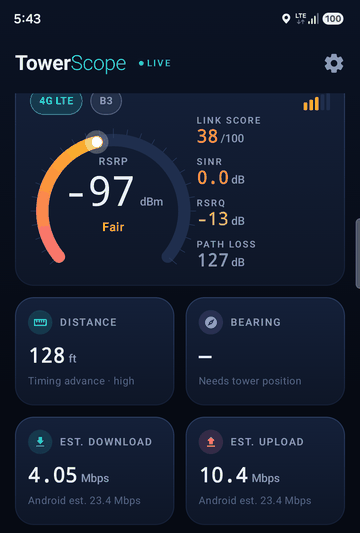
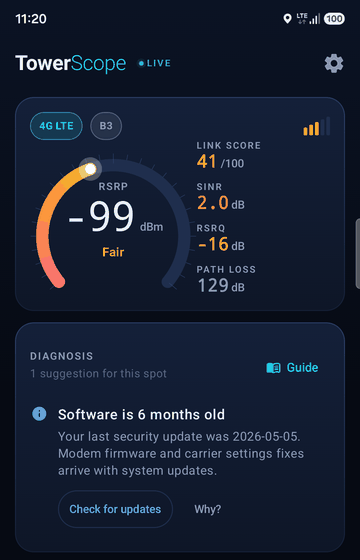
Radar: true vs magnetic north, prominent direction beam to the tower
- Platforms expose the magnetic declination (Android GeomagneticField, iOS true-minus-magnetic heading);
  the radar marks true north (red N) and magnetic north (amber MN), with a caption giving the declination.
- A wedge beam with flowing chevrons, an arrowhead and a bearing tag points at the serving tower, and a
  line under the radar says "Tower 235° SW · turn 40° left".
- Range labels move to the lower-right diagonal so they don't collide with the north markers.
- Refreshed the Overview screenshots.

diff --git a/shared/src/commonMain/kotlin/io/towerscope/ui/components/Graphics.kt b/shared/src/commonMain/kotlin/io/towerscope/ui/components/Graphics.kt
@@ -88,6 +88,8 @@ fun RadarView(
     rangeM: Double,
     units: UnitSystem,
     modifier: Modifier = Modifier,
+    /** Magnetic declination (east positive). When known with a compass, a magnetic-north marker is drawn. */
+    declinationDeg: Float? = null,
 ) {
     val transition = rememberInfiniteTransition()
     val sweep by transition.animateFloat(0f, 360f, infiniteRepeatable(tween(if (scanning) 1800 else 4200, easing = LinearEasing)))
@@ -97,6 +99,8 @@ fun RadarView(
     val labelStyle = TextStyle(color = Palette.TextFaint, fontSize = 9.sp, fontFamily = Mono)
     val cardinalStyle = TextStyle(color = Palette.TextDim, fontSize = 11.sp, fontWeight = FontWeight.Bold)
     val northStyle = cardinalStyle.copy(color = Palette.Red)
+    val magStyle = TextStyle(color = Palette.Amber, fontSize = 9.sp, fontWeight = FontWeight.Bold)
+    val beamLabelStyle = TextStyle(color = Color.White, fontSize = 12.sp, fontWeight = FontWeight.Bold, fontFamily = Mono)
     val accent = Palette.Cyan
 
     Canvas(modifier.fillMaxWidth().aspectRatio(1f)) {
@@ -114,7 +118,9 @@ fun RadarView(
             drawCircle(Palette.StrokeHi.copy(alpha = if (i == 4) 0.9f else 0.45f), r, c, style = Stroke(if (i == 4) 1.5f else 1f))
             val txt = Fmt.distance(rangeM * i / 4, units)
             val layout = measurer.measure(txt, labelStyle)
-            drawText(layout, topLeft = Offset(c.x + 4f, c.y - r + 2f))
+            // On the lower-right diagonal: labels stagger instead of colliding, and the north markers stay clear.
+            val at = polar(c, r, 135f)
+            drawText(layout, topLeft = Offset(at.x - layout.size.width - 2f, at.y - layout.size.height - 1f))
         }
         // Ticks & cardinal points (rotate with heading)
         for (d in 0 until 360 step 10) {
@@ -127,7 +133,16 @@ fun RadarView(
         }
         listOf("N" to 0f, "E" to 90f, "S" to 180f, "W" to 270f).forEach { (t, d) ->
             val layout = measurer.measure(t, if (t == "N") northStyle else cardinalStyle)
-            val p = polar(c, R + 16.dp.toPx() * 0.75f, d + rot)
+            val p = polar(c, R + 15.dp.toPx(), d + rot)
+            drawText(layout, topLeft = Offset(p.x - layout.size.width / 2f, p.y - layout.size.height / 2f))
+        }
+        // North markers: red = true north, amber = magnetic north (only shown when the compass is in use).
+        drawRingMarker(c, R, rot, Palette.Red, 6.dp.toPx())
+        if (headingDeg != null && declinationDeg != null) {
+            val m = declinationDeg + rot
+            drawRingMarker(c, R, m, Palette.Amber, 5.dp.toPx())
+            val layout = measurer.measure("MN", magStyle)
+            val p = polar(c, R - 20.dp.toPx(), m)
             drawText(layout, topLeft = Offset(p.x - layout.size.width / 2f, p.y - layout.size.height / 2f))
         }
         // Crosshair
@@ -148,6 +163,56 @@ fun RadarView(
             )
         }
         drawLine(accent.copy(alpha = 0.9f), c, polar(c, R, sweep), strokeWidth = 2f)
+
+        // Direction beam to the primary tower: wedge, core line, chevrons flowing outward, bearing tag.
+        blips.firstOrNull { it.primary && !it.ringOnly && it.bearingDeg != null }?.let { b ->
+            val bearing = b.bearingDeg!!.toFloat()
+            val a = bearing + rot
+            val half = 8f
+            val wedge = Path().apply {
+                moveTo(c.x, c.y)
+                val p0 = polar(c, R, a - half)
+                lineTo(p0.x, p0.y)
+                arcTo(
+                    androidx.compose.ui.geometry.Rect(c.x - R, c.y - R, c.x + R, c.y + R),
+                    a - half - 90f, 2 * half, false,
+                )
+                close()
+            }
+            drawPath(
+                wedge,
+                Brush.linearGradient(listOf(b.color.copy(alpha = 0.05f), b.color.copy(alpha = 0.42f)), c, polar(c, R, a)),
+            )
+            drawLine(b.color.copy(alpha = 0.95f), c, polar(c, R, a), strokeWidth = 3.dp.toPx(), cap = StrokeCap.Round)
+            for (i in 0 until 3) {
+                val f = (pulse + i / 3f) % 1f
+                val alpha = sin(f * PI.toFloat()).coerceIn(0f, 1f)
+                val tip = polar(c, R * (0.18f + 0.74f * f), a)
+                val back = R * (0.18f + 0.74f * f) - 7.dp.toPx()
+                val chevron = Path().apply {
+                    val l = polar(c, back, a - 6f); val r = polar(c, back, a + 6f)
+                    moveTo(l.x, l.y); lineTo(tip.x, tip.y); lineTo(r.x, r.y)
+                }
+                drawPath(chevron, Color.White.copy(alpha = 0.85f * alpha), style = Stroke(2.dp.toPx(), cap = StrokeCap.Round, join = StrokeJoin.Round))
+            }
+            // Arrowhead just outside the ring.
+            val tip = polar(c, R + 9.dp.toPx(), a)
+            val bl = polar(c, R - 1.dp.toPx(), a - 4.5f); val br = polar(c, R - 1.dp.toPx(), a + 4.5f)
+            drawPath(Path().apply { moveTo(tip.x, tip.y); lineTo(bl.x, bl.y); lineTo(br.x, br.y); close() }, b.color)
+            // Bearing tag on a pill, placed on the beam between the center and the tower.
+            val tag = measurer.measure("${((bearing % 360 + 360) % 360).toInt()}°", beamLabelStyle)
+            val tp = polar(c, R * 0.58f, a)
+            val pad = 4.dp.toPx()
+            drawRoundRect(
+                Color(0xE60A1424), Offset(tp.x - tag.size.width / 2f - pad, tp.y - tag.size.height / 2f - pad / 2),
+                Size(tag.size.width + 2 * pad, tag.size.height + pad), CornerRadius(8.dp.toPx()),
+            )
+            drawRoundRect(
+                b.color, Offset(tp.x - tag.size.width / 2f - pad, tp.y - tag.size.height / 2f - pad / 2),
+                Size(tag.size.width + 2 * pad, tag.size.height + pad), CornerRadius(8.dp.toPx()), style = Stroke(1.dp.toPx()),
+            )
+            drawText(tag, topLeft = Offset(tp.x - tag.size.width / 2f, tp.y - tag.size.height / 2f))
+        }
 
         // Blips
         blips.forEach { b ->
@@ -188,6 +253,14 @@ fun RadarView(
         drawCircle(Color.White, 7f, c)
         drawCircle(Palette.Blue, 5f, c)
     }
+}
+
+/** Small inward-pointing triangle sitting on the outer ring at [deg]. */
+private fun DrawScope.drawRingMarker(c: Offset, r: Float, deg: Float, color: Color, len: Float) {
+    val tip = polar(c, r - 1f, deg)
+    val spread = len / r * 180f / PI.toFloat() * 0.7f
+    val l = polar(c, r + len, deg - spread); val rr = polar(c, r + len, deg + spread)
+    drawPath(Path().apply { moveTo(tip.x, tip.y); lineTo(l.x, l.y); lineTo(rr.x, rr.y); close() }, color)
 }
 
 private fun DrawScope.drawTowerGlyph(p: Offset, color: Color, s: Float) {

diff --git a/shared/src/commonMain/kotlin/io/towerscope/ui/screens/OverviewScreen.kt b/shared/src/commonMain/kotlin/io/towerscope/ui/screens/OverviewScreen.kt
@@ -25,6 +25,7 @@ import androidx.compose.runtime.getValue
 import androidx.compose.ui.Alignment
 import androidx.compose.ui.Modifier
 import androidx.compose.ui.text.font.FontWeight
+import androidx.compose.ui.text.style.TextAlign
 import androidx.compose.ui.unit.dp
 import androidx.compose.ui.unit.sp
 import io.towerscope.AppController
@@ -34,6 +35,7 @@ import io.towerscope.calc.Fmt
 import io.towerscope.calc.Geo
 import io.towerscope.calc.SignalQuality
 import io.towerscope.calc.fmt
+import kotlin.math.abs
 import io.towerscope.data.UnitSystem
 import io.towerscope.model.Transport
 import io.towerscope.ui.Navigator
@@ -68,6 +70,7 @@ fun OverviewScreen(controller: AppController, nav: Navigator) {
     val snapshot by controller.snapshot.collectAsState()
     val fix by controller.fix.collectAsState()
     val heading by controller.heading.collectAsState()
+    val declination by controller.declination.collectAsState()
     val settings by controller.settings.collectAsState()
     val nearby by controller.nearby.collectAsState()
     val radioError by controller.radioError.collectAsState()
@@ -150,9 +153,25 @@ fun OverviewScreen(controller: AppController, nav: Navigator) {
                 }
             }
             Box(contentAlignment = Alignment.Center) {
-                RadarView(blips, heading, scanning = snapshot == null || serving == null, rangeM = range, units = units, modifier = Modifier.padding(top = 8.dp))
+                RadarView(
+                    blips, heading, scanning = snapshot == null || serving == null, rangeM = range, units = units,
+                    modifier = Modifier.padding(top = 8.dp), declinationDeg = declination,
+                )
                 if (snapshot == null) ScanningLabel("ACQUIRING SIGNAL…", Modifier.align(Alignment.BottomCenter))
             }
+            blips.firstOrNull { it.primary && !it.ringOnly && it.bearingDeg != null }?.let { b ->
+                val bearing = b.bearingDeg!!
+                val turn = heading?.let { h ->
+                    val rel = Geo.angleDelta(h.toDouble(), bearing)
+                    if (abs(rel) < 10) "you're facing it" else "turn ${abs(rel).fmt(0)}° ${if (rel > 0) "right" else "left"}"
+                }
+                Text(
+                    "Tower ${bearing.fmt(0)}° ${Geo.cardinal(bearing)}" + (turn?.let { " · $it" } ?: ""),
+                    fontSize = 15.sp, fontWeight = FontWeight.Bold, color = b.color,
+                    modifier = Modifier.fillMaxWidth(), textAlign = TextAlign.Center,
+                )
+            }
+            NorthLegend(heading != null, declination)
             if (serving != null && serving.bearingDeg == null && best != null && best.method != DistanceMethod.GPS_DATABASE) {
                 Text(
                     if (settings.hasApiKey) "Dashed ring: distance known, direction unknown (tower not in database yet)."
@@ -290,4 +309,21 @@ private fun QuickStat(label: String, value: String, unit: String, color: android
             Text(unit, style = TextStyles.unit, modifier = Modifier.padding(bottom = 2.dp))
         }
     }
+}
+
+/** Explains which north the radar is drawn against. */
+@Composable
+private fun NorthLegend(compass: Boolean, declination: Float?) {
+    val text = when {
+        !compass -> "North is at the top (no compass reading)"
+        declination == null -> "N is magnetic north until GPS has a fix, then true north"
+        else -> {
+            val side = if (declination >= 0) "E" else "W"
+            "Red N = true north · amber MN = magnetic north, ${abs(declination).fmt(1)}° $side here"
+        }
+    }
+    Text(
+        text, fontSize = 11.sp, color = Palette.TextFaint,
+        modifier = Modifier.fillMaxWidth().padding(top = 4.dp), textAlign = TextAlign.Center,
+    )
 }

diff --git a/shared/src/androidMain/kotlin/io/towerscope/platform/AndroidPlatform.kt b/shared/src/androidMain/kotlin/io/towerscope/platform/AndroidPlatform.kt
@@ -40,6 +40,10 @@ class AndroidPlatform(context: Context) : PlatformServices {
     private val radio = AndroidRadio(app)
 
     @Volatile private var lastFix: GeoFix? = null
+    @Volatile private var declination: Float? = null
+    private var declinationFix: GeoFix? = null
+
+    override val declinationDeg: Float? get() = declination
 
     override val permissions = PermissionGate()
 
@@ -145,7 +149,12 @@ class AndroidPlatform(context: Context) : PlatformServices {
                 SensorManager.getOrientation(remapped, orient)
                 var deg = Math.toDegrees(orient[0].toDouble())
                 lastFix?.let { f ->
-                    deg += GeomagneticField(f.lat.toFloat(), f.lon.toFloat(), (f.altitudeM ?: 0.0).toFloat(), System.currentTimeMillis()).declination
+                    // The field model changes over kilometres, so recompute only when the fix changes.
+                    if (f !== declinationFix) {
+                        declinationFix = f
+                        declination = GeomagneticField(f.lat.toFloat(), f.lon.toFloat(), (f.altitudeM ?: 0.0).toFloat(), System.currentTimeMillis()).declination
+                    }
+                    deg += declination ?: 0f
                 }
                 // Circular low-pass filter to steady the needle.
                 val r = Math.toRadians(deg)

diff --git a/shared/src/commonMain/kotlin/io/towerscope/AppController.kt b/shared/src/commonMain/kotlin/io/towerscope/AppController.kt
@@ -62,6 +62,10 @@ class AppController(val platform: PlatformServices) {
     private val _heading = MutableStateFlow<Float?>(null)
     val heading: StateFlow<Float?> = _heading.asStateFlow()
 
+    private val _declination = MutableStateFlow<Float?>(null)
+    /** Magnetic declination (east positive) once known; while null, [heading] is magnetic. */
+    val declination: StateFlow<Float?> = _declination.asStateFlow()
+
     private val _history = MutableStateFlow<List<SignalSample>>(emptyList())
     val history: StateFlow<List<SignalSample>> = _history.asStateFlow()
 
@@ -123,7 +127,10 @@ class AppController(val platform: PlatformServices) {
         if (permissions.value.coreGranted) startSensors()
         if (headingJob == null) {
             headingJob = scope.launch {
-                platform.headings().catch { }.collect { _heading.value = it }
+                platform.headings().catch { }.collect {
+                    _declination.value = platform.declinationDeg
+                    _heading.value = it
+                }
             }
         }
     }

diff --git a/shared/src/iosMain/kotlin/io/towerscope/platform/IosPlatform.kt b/shared/src/iosMain/kotlin/io/towerscope/platform/IosPlatform.kt
@@ -171,14 +171,19 @@ class IosPlatform : PlatformServices {
         }
     }
 
+    private var declination: Float? = null
+    override val declinationDeg: Float? get() = declination
+
     override fun headings(): Flow<Float> = callbackFlow {
         if (!CLLocationManager.headingAvailable()) {
             awaitClose { }
             return@callbackFlow
         }
         delegate.onHeading = { h ->
-            val deg = if (h.trueHeading >= 0) h.trueHeading else h.magneticHeading
-            trySend(deg.toFloat())
+            val hasTrue = h.trueHeading >= 0
+            // CoreLocation reports both; their difference is the declination (east positive).
+            declination = if (hasTrue) (((h.trueHeading - h.magneticHeading + 540.0) % 360.0) - 180.0).toFloat() else null
+            trySend((if (hasTrue) h.trueHeading else h.magneticHeading).toFloat())
         }
         manager.headingFilter = 1.0
         manager.startUpdatingHeading()

diff --git a/shared/src/commonMain/kotlin/io/towerscope/platform/Platform.kt b/shared/src/commonMain/kotlin/io/towerscope/platform/Platform.kt
@@ -19,8 +19,17 @@ interface PlatformServices {
 
     fun locationFixes(): Flow<GeoFix>
 
-    /** Device heading in degrees clockwise from true north. May never emit if no compass. */
+    /**
+     * Device heading in degrees clockwise from north. May never emit if no compass.
+     * It is referenced to true north once [declinationDeg] is known, and to magnetic north before that.
+     */
     fun headings(): Flow<Float>
+
+    /**
+     * Magnetic declination at the current position in degrees (east positive: magnetic north lies east
+     * of true north), or null while unknown. Read alongside each heading.
+     */
+    val declinationDeg: Float? get() = null
 
     fun createHttpClient(): HttpClient
 

diff --git a/README.md b/README.md
@@ -55,7 +55,7 @@ Captured on a Samsung Galaxy A16 (Android 16) connected to T-Mobile LTE band 3, 
 
 <table>
   <tr>
-    <td align="center"><img src="docs/screenshots/overview.png" width="240" alt="Overview: distance to serving tower and radar"><br><sub><b>Overview</b>: tower distance and radar</sub></td>
+    <td align="center"><img src="docs/screenshots/overview.png" width="240" alt="Overview: distance to serving tower and radar"><br><sub><b>Overview</b>: distance, radar, true and magnetic north</sub></td>
     <td align="center"><img src="docs/screenshots/overview-signal.png" width="240" alt="Overview: RSRP gauge, link score and estimated speeds"><br><sub>Signal gauge, link score, est. speeds</sub></td>
     <td align="center"><img src="docs/screenshots/signal.png" width="240" alt="Signal tab: link quality score and live history chart"><br><sub><b>Signal</b>: link score and live history</sub></td>
   </tr>
@@ -75,7 +75,7 @@ Captured on a Samsung Galaxy A16 (Android 16) connected to T-Mobile LTE band 3, 
 
 | Area | What you get |
 |---|---|
-| **Overview** | Animated radar showing the serving tower, neighbor cells and database towers. The radar rotates with the compass. Also: signal gauge, link score, distance, bearing, and estimated download/upload. |
+| **Overview** | Animated radar showing the serving tower, neighbor cells and database towers. The radar rotates with the compass and marks both true north and magnetic north. A bold beam points to the serving tower, with its bearing and how far to turn. Also: signal gauge, link score, distance, bearing, and estimated download/upload. |
 | **Signal** | Link-quality score (0–100), live history chart with grade bands, and every metric (RSRP, RSRQ, SINR, RSSI, CQI, TA, RSCP, Ec/No). Includes a serving-vs-neighbor comparison. |
 | **Metric drill-down** | Threshold scale, history with min/avg/max/std dev, and values derived from the metric: path loss, SNR margin, modulation, Shannon limit, MIMO rank, TA→distance and CQI→MCS. Each metric also explains what it is, what affects it and how to improve it. |
 | **Cell detail** | Distance compared across 4 methods (with error bars), a compass arrow pointing to the tower, and the throughput model with every input. Also: band and frequencies (DL/UL), wavelength, Fresnel zone, radio horizon, elevation angle, Doppler, decoded IDs (eNB/gNB ID, sector, PCI group, RNC…) and tower coordinates. |
@@ -92,8 +92,9 @@ Captured on a Samsung Galaxy A16 (Android 16) connected to T-Mobile LTE band 3, 
   2. Timing advance (LTE 16·Ts ≈ 78.07 m/step, GSM ≈ 553.5 m/step, NR µs from API 34+).
   3. Okumura-Hata / COST-231 inverted from path loss = assumed EIRP − RSRP.
   4. Free-space upper bound.
-- **Bearing**: great-circle initial bearing. The compass applies magnetic declination (Android
-  `GeomagneticField`).
+- **Bearing**: great-circle initial bearing, relative to true north. The compass applies magnetic
+  declination (Android `GeomagneticField`, iOS `CLHeading.trueHeading`) once GPS has a fix, and the radar
+  shows the declination and magnetic north alongside true north.
 - **Bands**: EARFCN / NR-ARFCN / UARFCN / ARFCN → band and DL/UL frequency, per 3GPP 36.101, 38.104,
   25.101 and 45.005. Overlapping NR bands are resolved using the modem-reported band, then by region.
 - **Throughput**: attenuated Shannon model (3GPP TR 36.942), with control overhead, TDD split, MIMO rank
